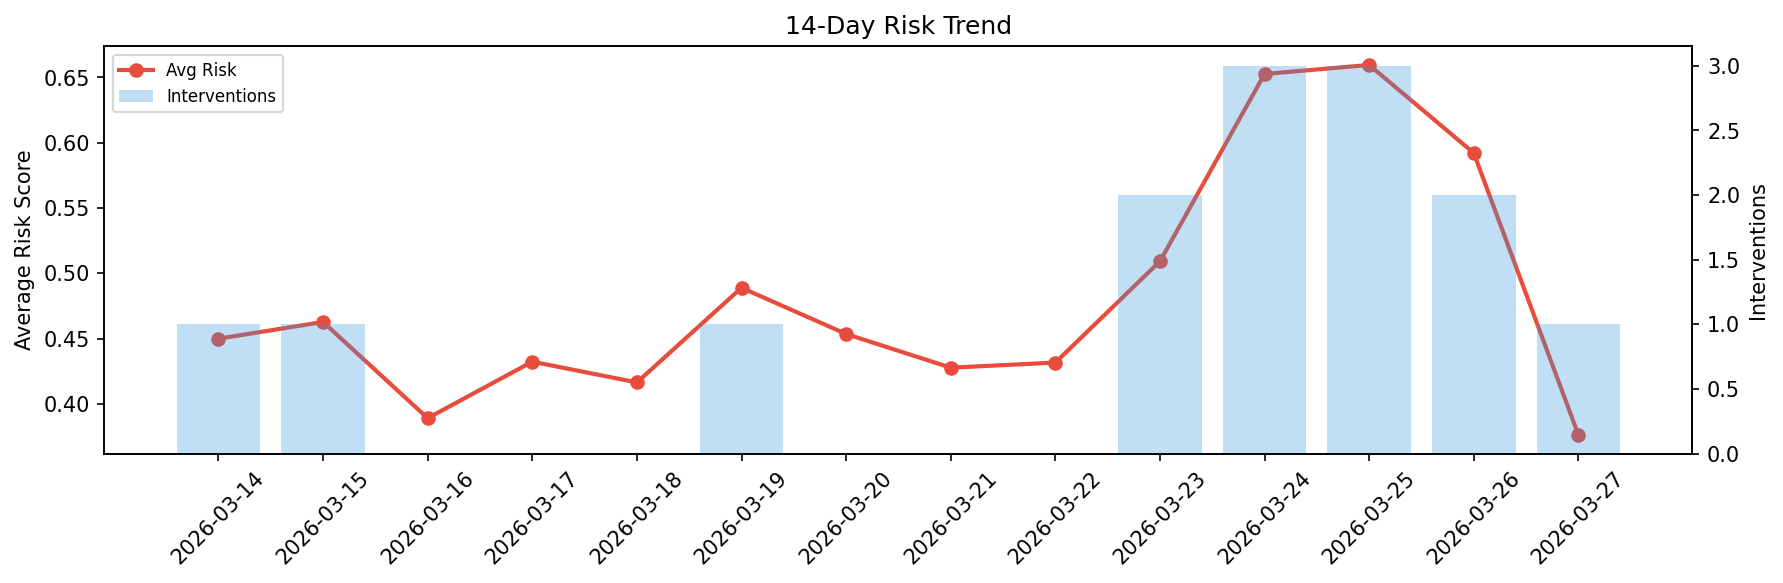
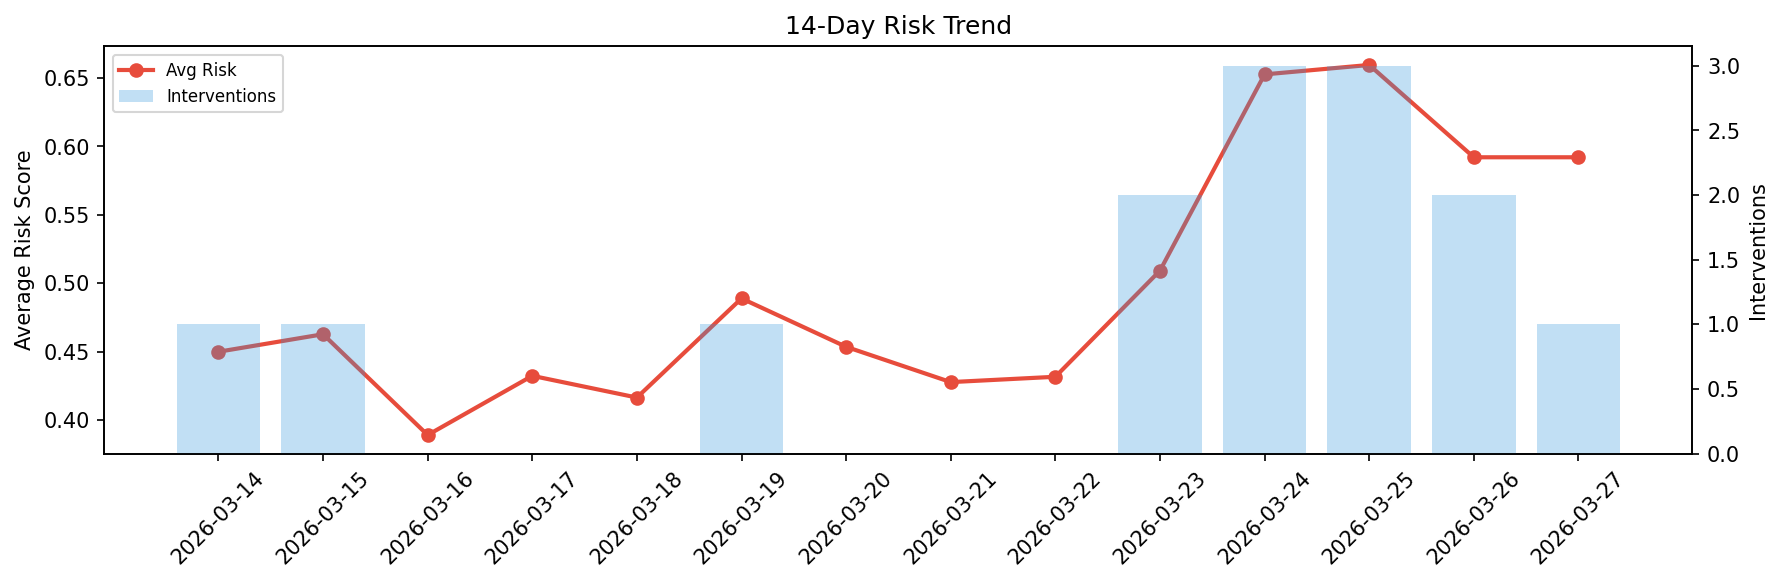
agent-improvement: daily cycle 2026-03-27T15:10

diff --git a/logs/2026-03-27.md b/logs/2026-03-27.md
@@ -1,6 +1,6 @@
 # Agent Improvement Report — 2026-03-27
 
-**Cycle ID:** `b2d73c93` | **Avg Risk:** 0.3761 | **Interventions:** 1/4
+**Cycle ID:** `c96fbc3e` | **Avg Risk:** 0.5921 | **Interventions:** 1/4
 
 ![Dashboard](2026-03-27_dashboard.png)
 
@@ -10,18 +10,18 @@
 
 | Domain | Risk Score | Decision | Alerts |
 |--------|-----------|----------|--------|
-| code_review | 0.1922 | monitor | none |
-| incident_response | 0.1389 | monitor | none |
-| data_pipeline | 0.6581 | intervene | freshness |
-| deployment | 0.5154 | monitor | none |
+| code_review | 0.7956 | intervene | duplication, coverage |
+| incident_response | 0.5941 | monitor | severity |
+| data_pipeline | 0.4679 | monitor | none |
+| deployment | 0.511 | monitor | none |
 
 ## Delta vs Yesterday
 
 | Domain | Today | Yesterday | Change |
 |--------|-------|-----------|--------|
-| code_review | 0.1922 | 0.6145 | 📉 -68.7% |
-| incident_response | 0.1389 | 0.4394 | 📉 -68.4% |
-| data_pipeline | 0.6581 | 0.5357 | 📈 22.8% |
-| deployment | 0.5154 | 0.7789 | 📉 -33.8% |
+| code_review | 0.7956 | 0.6145 | 📈 29.5% |
+| incident_response | 0.5941 | 0.4394 | 📈 35.2% |
+| data_pipeline | 0.4679 | 0.5357 | 📉 -12.7% |
+| deployment | 0.511 | 0.7789 | 📉 -34.4% |
 
-**Refinement:** `{'adjustment': 'tighten_thresholds', 'trend': 'degrading', 'window': 4}`
+**Refinement:** `{'adjustment': 'maintain', 'trend': 'improving', 'window': 4}`
